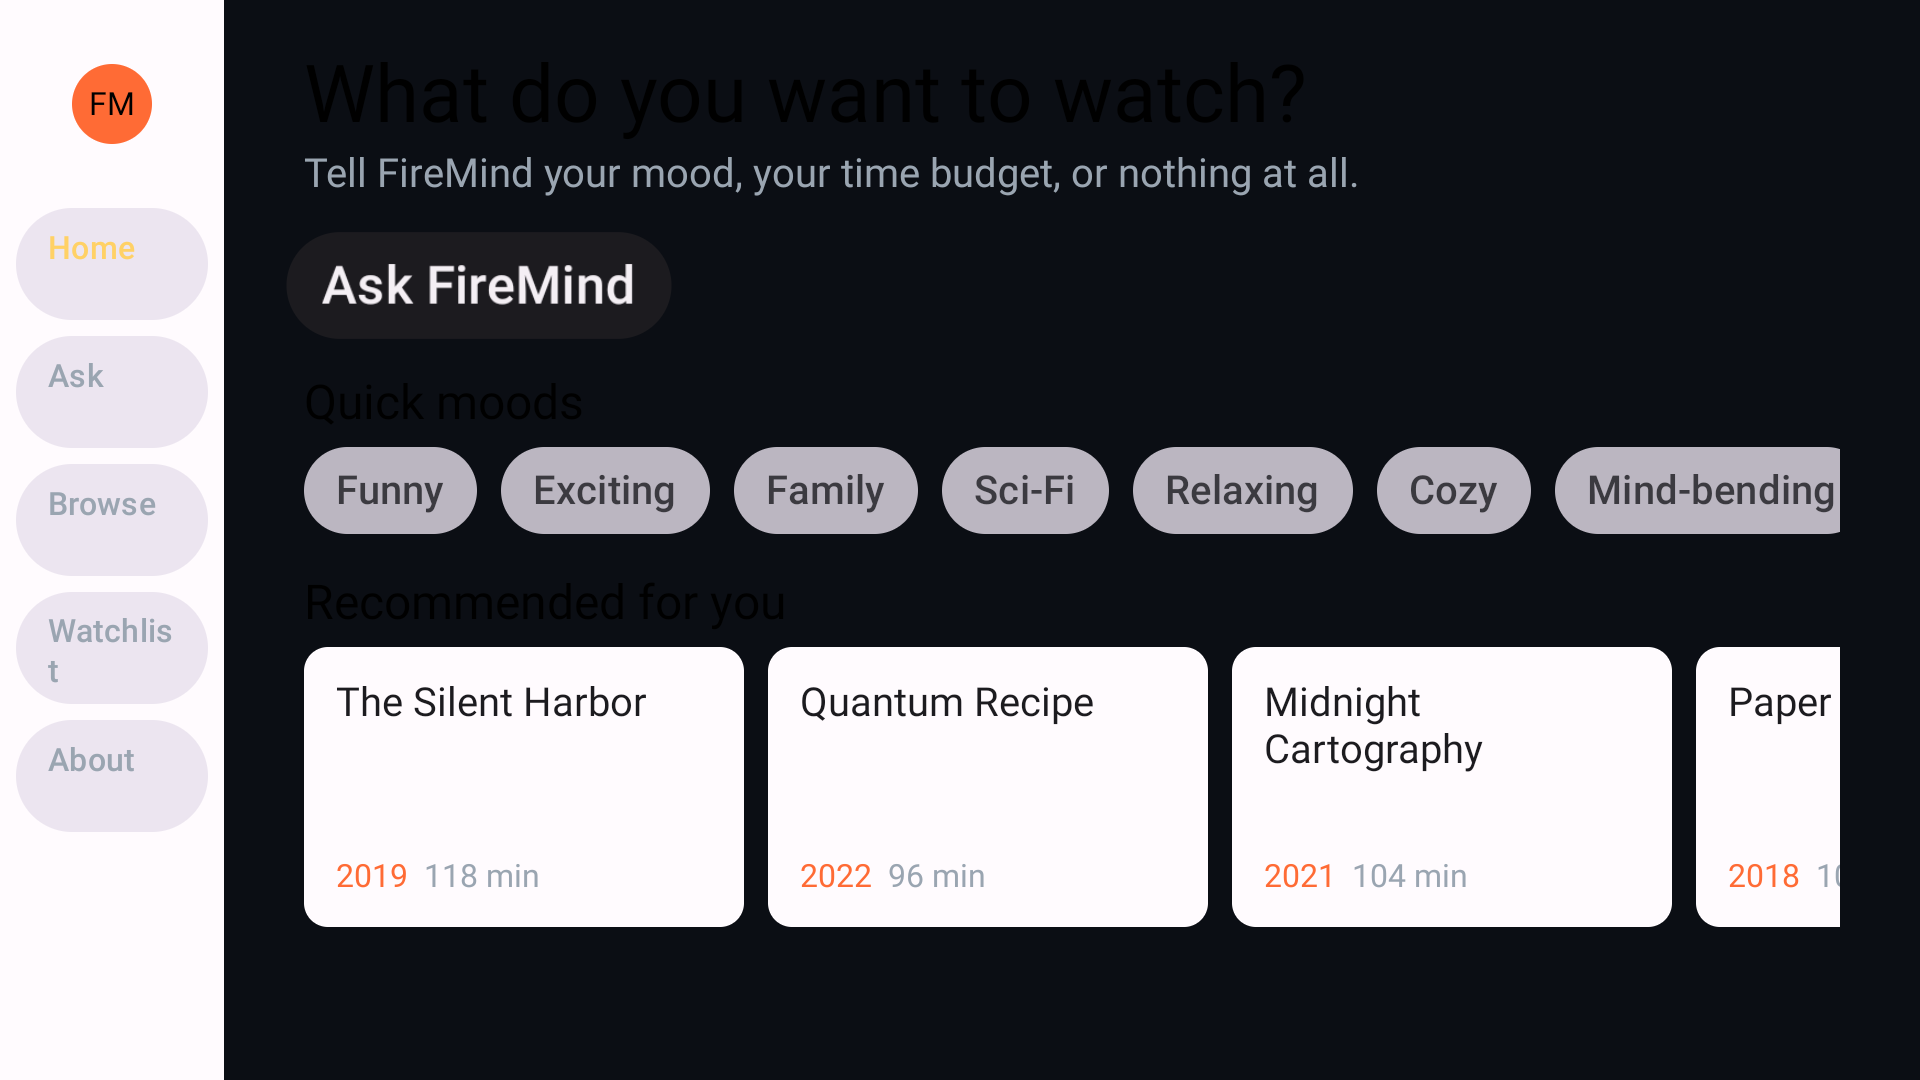
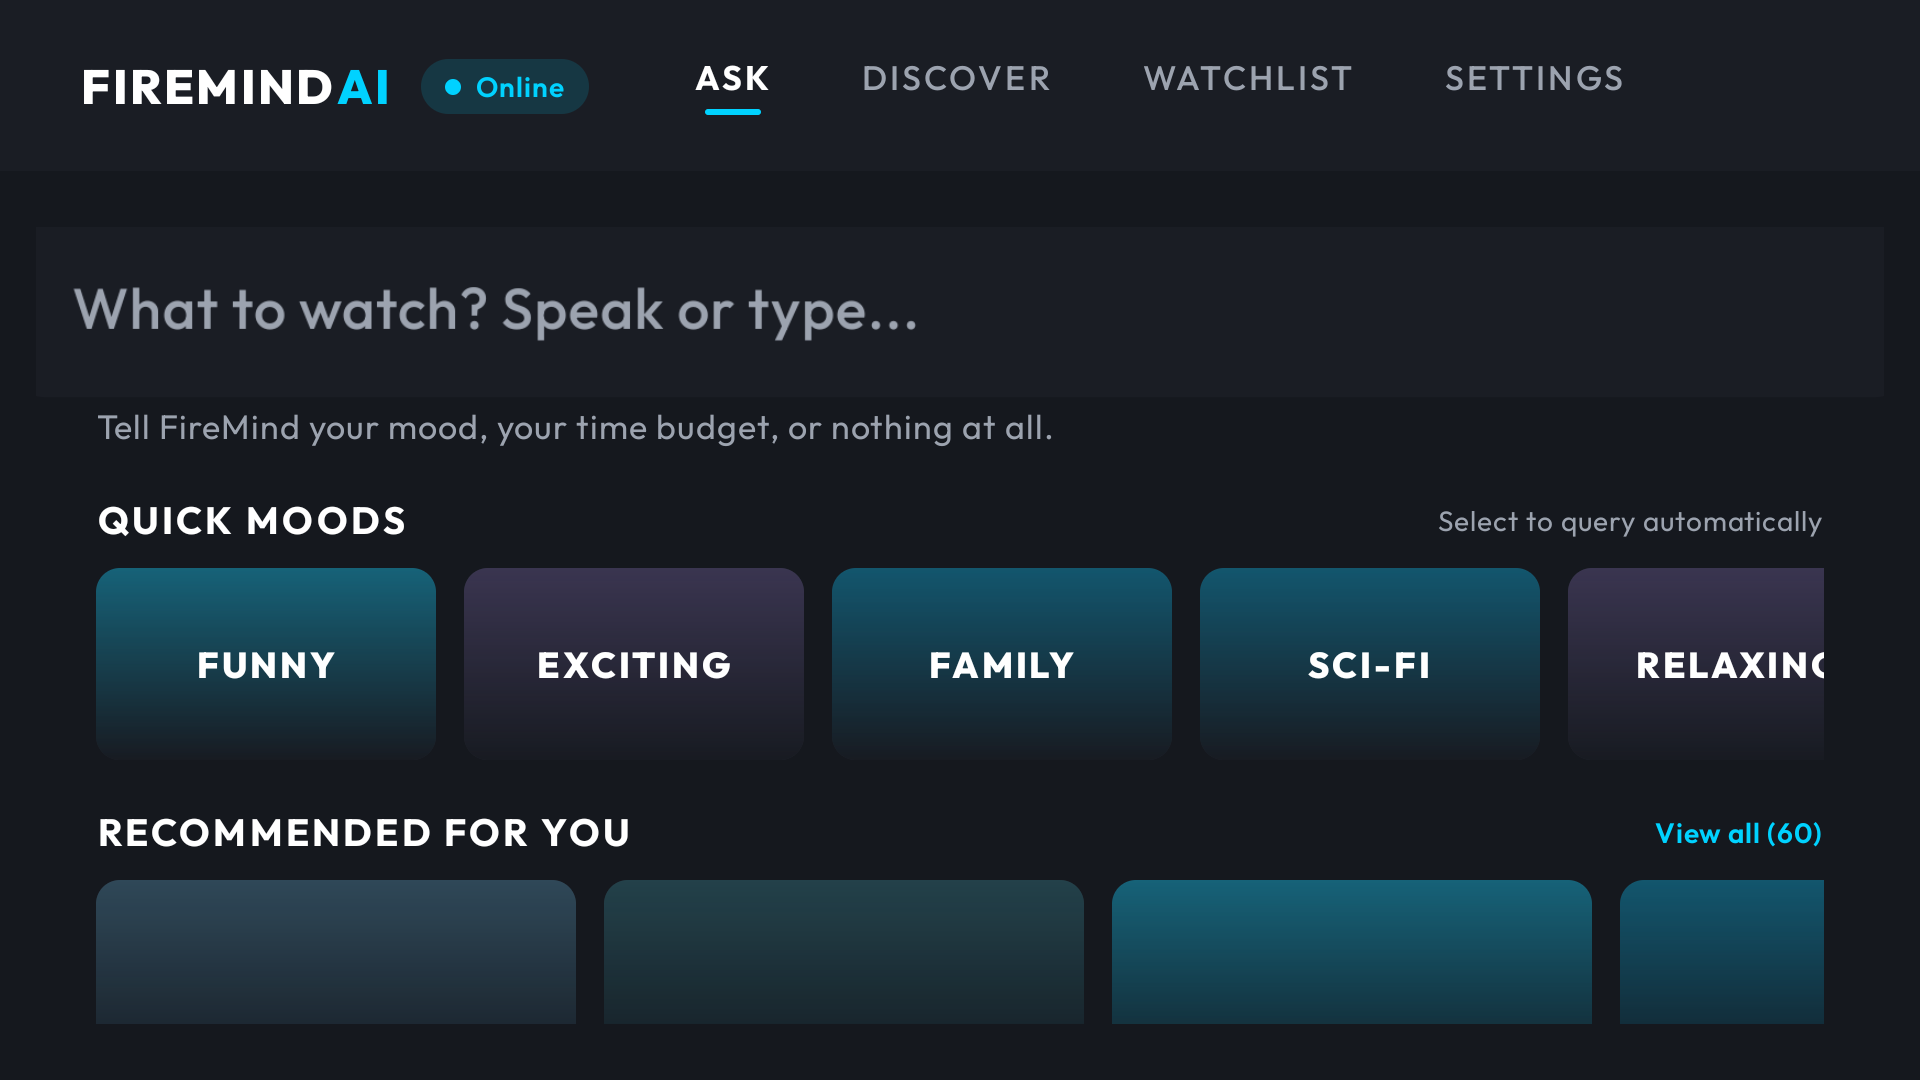
docs: README uses only current-design screenshots; fresh Fire OS 7/8 captures
Replace the classic-capture gallery with Stitch-design images throughout,
and retake the Fire OS 7 (API 28) and Fire OS 8 (API 30) compatibility
shots from today's runs of the current build. The physical-phone run
keeps its original captures, now labeled as pre-redesign evidence.

🤖 Generated with Codebuff

diff --git a/README.md b/README.md
@@ -55,23 +55,12 @@ not mockups. The home and results screens reflect the current Stitch
   <img src="docs/screenshots/ui-tour/08-previous-query.png" alt="Voice insight panel" width="420">
 </p>
 
-### Classic capture set
+### More of the current design
 
-| Home | Ask FireMind |
-|---|---|
-| ![Home](docs/screenshots/01-home.png) | ![Assistant](docs/screenshots/02-assistant-prompt-chips.png) |
-
-| Results with reasons | Content details |
-|---|---|
-| ![Results](docs/screenshots/03-results-with-reasons.png) | ![Details](docs/screenshots/04-details.png) |
-
-| Browse catalog | Watchlist |
-|---|---|
-| ![Browse](docs/screenshots/05-browse-catalog.png) | ![Watchlist](docs/screenshots/06-watchlist.png) |
-
-| About / backend status |
-|---|
-| ![About](docs/screenshots/07-about-backend-status.png) |
+<p align="center">
+  <img src="docs/screenshots/ui-tour/07-discover.png" alt="Discover — browse by mood" width="420">
+  <img src="docs/screenshots/ui-tour/09-two-column.png" alt="Two-column home layout" width="420">
+</p>
 
 ### Demo videos
 
@@ -345,12 +334,12 @@ restart app → watchlist persists. Shot-by-shot narration:
 ## Fire OS compatibility runs
 
 Fire OS 7 is Android 9 (API 28) and Fire OS 8 is Android 11 (API 30). The
-app was installed and driven on both, and once more on API 28 with Google
-Play services disabled, since no Fire OS build ships them:
+current build was installed and driven on both; the captures below are from
+today's runs, showing the current design on each Fire OS version:
 
-| Fire OS 7 (API 28) | Fire OS 8 (API 30) | Fire OS 7, Google services disabled |
-|---|---|---|
-| ![Fire OS 7](docs/screenshots/fireos7-api28.png) | ![Fire OS 8](docs/screenshots/fireos8-api30.png) | ![Fire OS 7 without Google services](docs/screenshots/fireos7-api28-no-google-services.png) |
+| Fire OS 7 (API 28) | Fire OS 8 (API 30) |
+|---|---|
+| ![Fire OS 7](docs/screenshots/fireos7-api28.png) | ![Fire OS 8](docs/screenshots/fireos8-api30.png) |
 
 The whole check is repeatable — this is the mechanism behind the rows
 above, not a one-off manual session:
@@ -373,12 +362,12 @@ persistence checks pass on their own.
 Installed and run on a real **Samsung Galaxy A55 (Android 16, arm64)** over
 USB — not an emulator. Leanback is declared *optional*, so the app installs
 on handhelds, which is what makes this check possible without a TV in the
-room:
-
-For the run the phone was set to **TV geometry** — `wm size 1920x1080`
+room. For the run the phone was set to **TV geometry** — `wm size 1920x1080`
 with TV density (320 dpi), the logical resolution and text scale of a
 1080p television — and its original settings were restored afterwards. So
-these are 10-foot-UI captures, not phone-shaped approximations.
+these are 10-foot-UI captures, not phone-shaped approximations. This run
+dates from the pre-redesign UI; the current design is evidenced by the Fire
+OS captures above.
 
 | Home | Ask FireMind | Results |
 |---|---|---|
